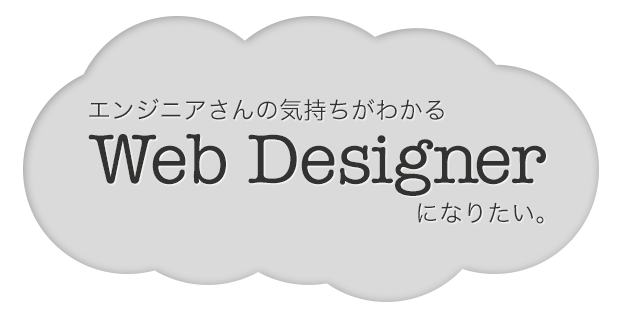
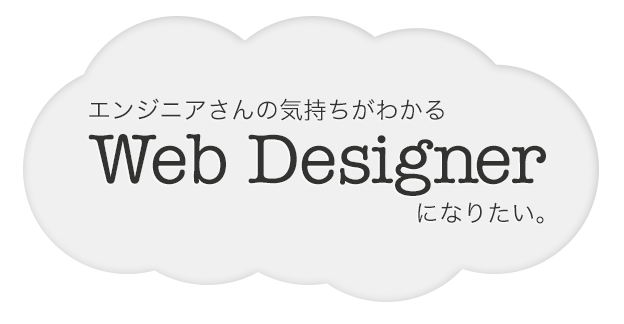
fixed colors and image

diff --git a/public/theme/my_blog/sass/basic.sass b/public/theme/my_blog/sass/basic.sass
@@ -1,7 +1,7 @@
 @charset "UTF-8"
 
 $black: #000 + 58
-$white: #dfdfdf
+$white: #f0f0f0
 $blue: #1c77b1
 $max-width: 960px
 $button_color: $black + 119

diff --git a/public/theme/my_blog/sass/article.sass b/public/theme/my_blog/sass/article.sass
@@ -1,7 +1,7 @@
 @charset "UTF-8"
 
 $black: #000 + 58
-$white: #dfdfdf
+$white: #f0f0f0
 $blue: #1c77b1
 
 article
